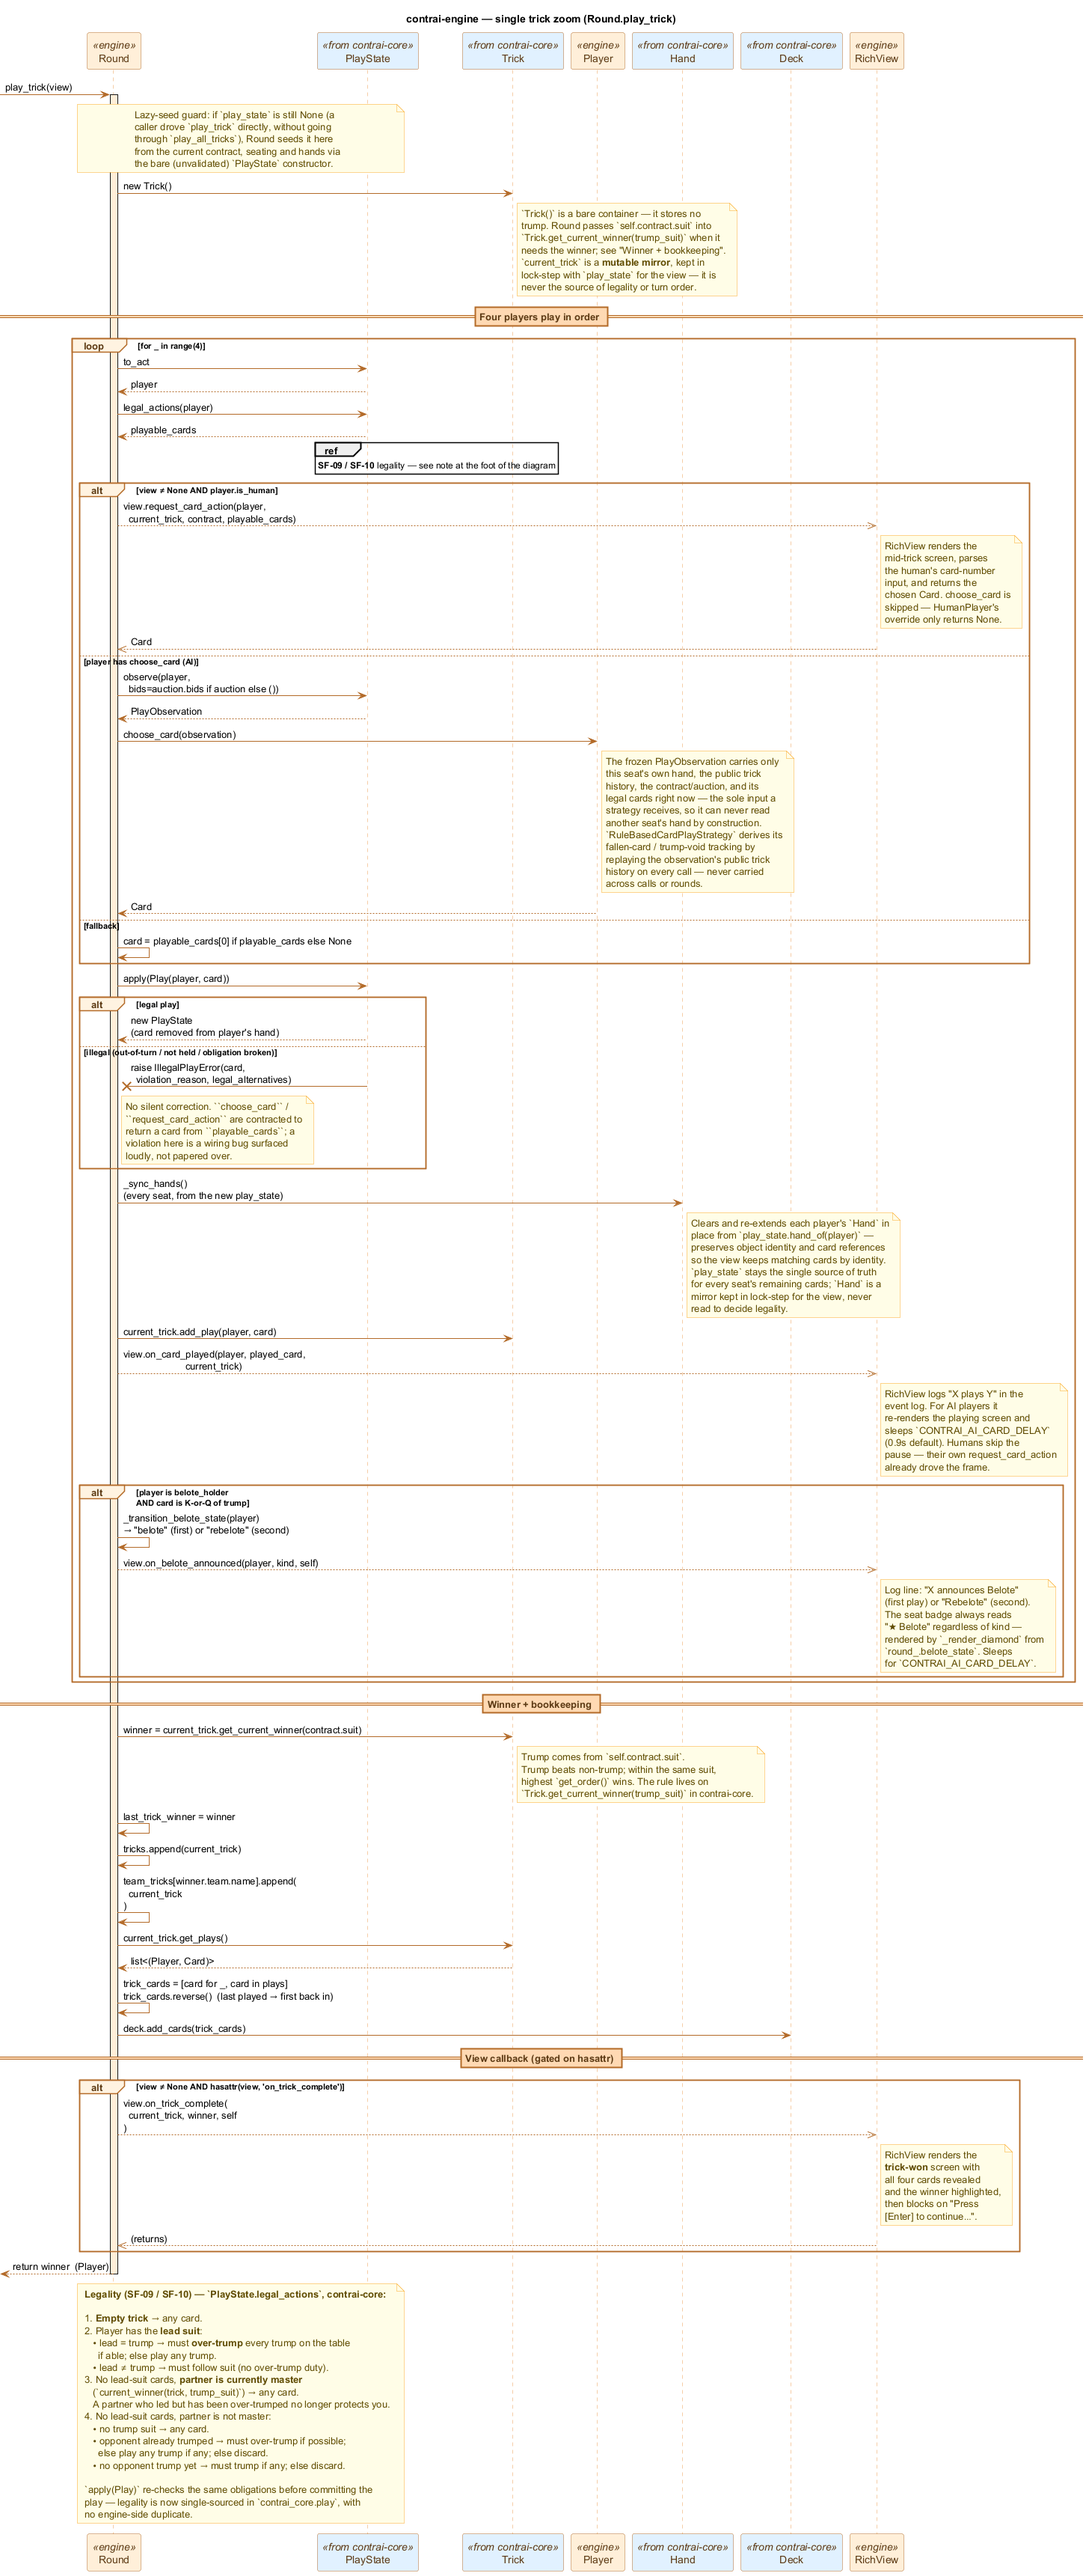
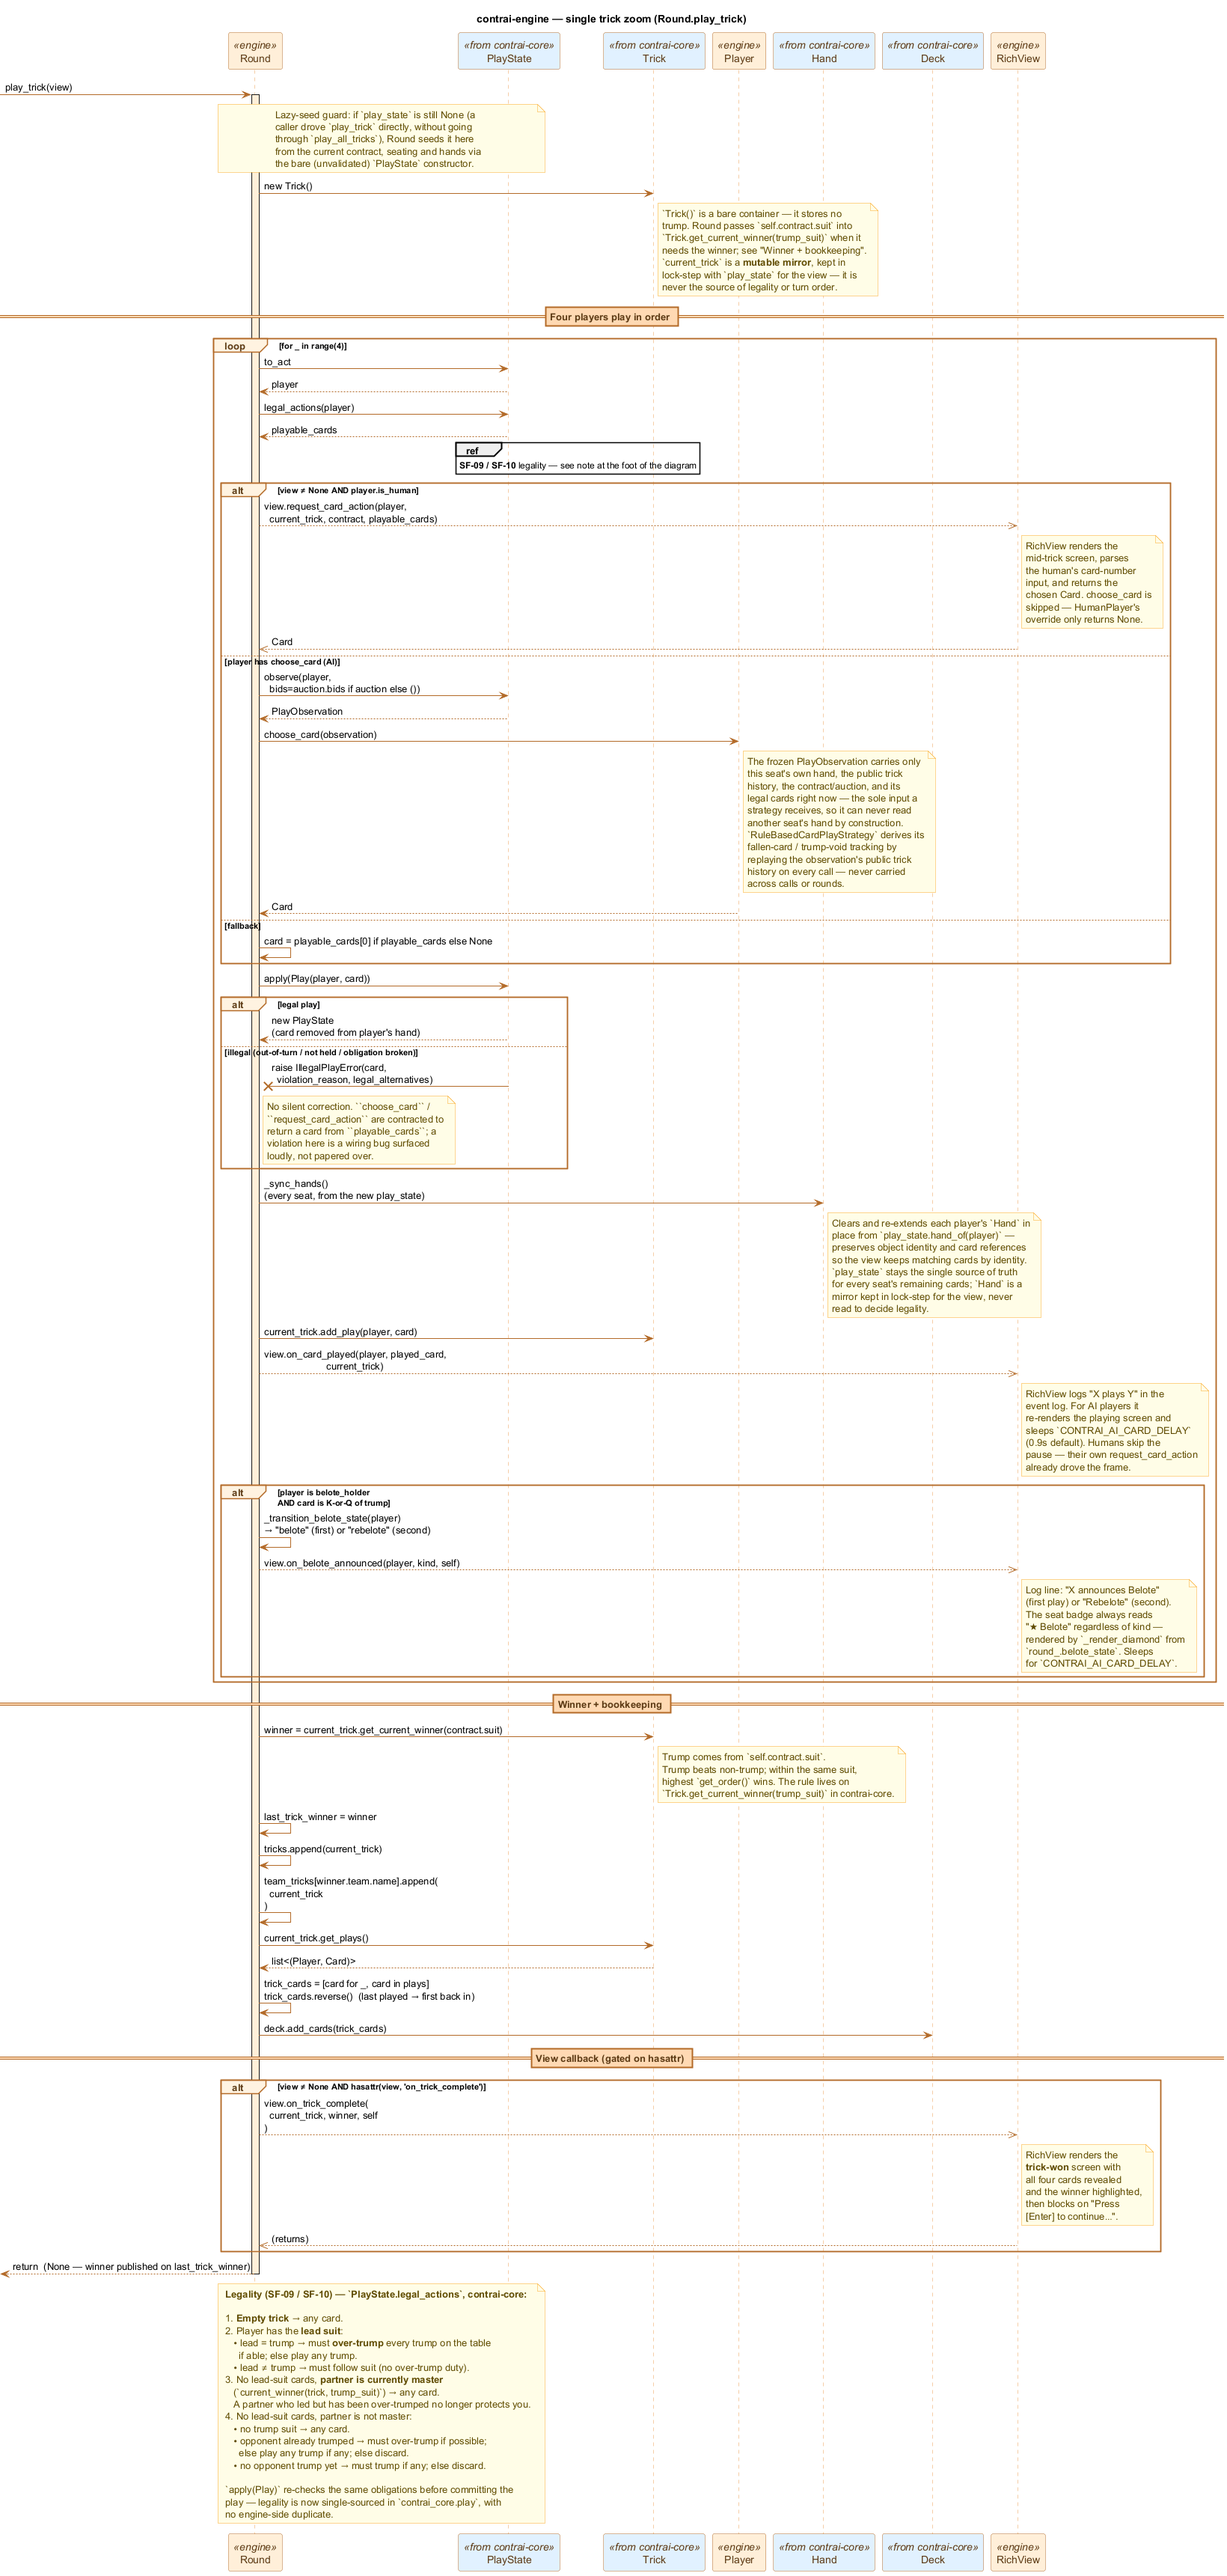
refactor(engine): tidy signatures, annotations and scoring comments
- Round.play_trick now returns None: the winner was already published
  on last_trick_winner and no caller consumed the return value.
- Drop the unused trick_num/winner locals in play_all_tricks.
- The on_all_pass_redeal view hook is now a pure announcement: its
  unused round_ parameter is gone, and Game's call site and the test
  view doubles follow suit.
- Unquote TYPE_CHECKING-only forward references (Player, Deck, Round);
  deferred annotation evaluation makes the quotes redundant.
- Trim stale section pointers from scoring's rule comments.
- Sync the engine class/round/trick diagrams (sources + PNGs) with the
  play_trick and on_all_pass_redeal signature changes.

diff --git a/packages/contrai-engine/src/contrai_engine/model/round/scoring.py b/packages/contrai-engine/src/contrai_engine/model/round/scoring.py
@@ -6,7 +6,7 @@
 # result; it mutates nothing. The thin ``Round.calculate_round_scores``
 # wrapper unpacks that result onto the round's public result attributes.
 # Keeping the maths side-effect-free here isolates ~250 lines of scoring
-# rules from the lifecycle orchestrator (see contree-domain.md §6.5, §7).
+# rules from the lifecycle orchestrator.
 
 from dataclasses import dataclass
 from enum import Enum
@@ -105,8 +105,7 @@ def count_player_tricks(
 def score_round(round_: 'Round') -> RoundScore:
     """Score a played-out round into a :class:`RoundScore`.
 
-    Three scoring shapes, all sharing the same Belote rule (see
-    contree-domain.md §6.5, §7):
+    Three scoring shapes, all sharing the same Belote rule:
 
     - **Numeric, un-doubled (M = 1).** Made → declarer scores
       ``C + P_attack`` and the defense keeps its own card points;
@@ -182,10 +181,10 @@ def score_round(round_: 'Round') -> RoundScore:
     if round_.last_trick_winner and round_.last_trick_winner.team:
         team_card_points[round_.last_trick_winner.team.name] += 10
 
-    # Belote (+20) belongs to the team *holding* K + Q of trump
-    # (contree-domain.md §6.5), not to whoever wins the trick those
-    # cards land in. ``belote_holder`` is the single player holding
-    # both at deal time (None when split, or at No-Trump).
+    # Belote (+20) belongs to the team *holding* K + Q of trump, not
+    # to whoever wins the trick those cards land in. ``belote_holder``
+    # is the single player holding both at deal time (None when split,
+    # or at No-Trump).
     belote_team: Optional[str] = None
     if round_.belote_holder is not None and round_.belote_holder.team is not None:
         belote_team = round_.belote_holder.team.name
@@ -206,7 +205,6 @@ def score_round(round_: 'Round') -> RoundScore:
     # giving 500 / 1000 / 2000 for Slam and 1000 / 2000 / 4000 for
     # Solo Slam at normal / doubled / redoubled. The grid is symmetric:
     # whichever side wins the contract scores the at-risk amount.
-    # See contree-domain.md §7.2.
     if round_.contract.is_slam_family():
         contract_team_trick_count = len(round_.team_tricks[contract_team_name])
         contract_made = contract_team_trick_count == 8
@@ -247,12 +245,11 @@ def score_round(round_: 'Round') -> RoundScore:
     # numeric contract. Recognised only un-doubled — the
     # doubled/redoubled path keeps its winner-takes-all 160 + C×M
     # shape regardless. The trick pile (152 cards + the 10-point
-    # last-trick bonus) is
-    # replaced by a flat 250 substitute and the contract is
-    # necessarily made. GRAND_SLAM when the contracting player won all
-    # 8 personally (the Solo Slam predicate), else plain SLAM.
-    # The 250 substitute is the same flat amount a *declared* Slam is
-    # worth, so it reads from the SlamLevel single source of truth.
+    # last-trick bonus) is replaced by a flat 250 substitute and the
+    # contract is necessarily made. GRAND_SLAM when the contracting
+    # player won all 8 personally (the Solo Slam predicate), else plain
+    # SLAM. The 250 substitute is the same flat amount a *declared* Slam
+    # is worth, so it reads from the SlamLevel single source of truth.
     UNANNOUNCED_SLAM_SUBSTITUTE = SlamLevel.SLAM.base_value
     unannounced_slam: Optional[UnannouncedSlam] = None
     declarer_slam = (
@@ -271,9 +268,8 @@ def score_round(round_: 'Round') -> RoundScore:
 
     # The declarer's *realized* points decide made/failed: card
     # points (already including the last-trick bonus) plus the Belote
-    # bonus when the declarer holds it (contree-domain.md §7.1-§7.2).
-    # An unannounced Slam is made outright — sweeping every trick can
-    # never fail.
+    # bonus when the declarer holds it. An unannounced Slam is made
+    # outright — sweeping every trick can never fail.
     attacker_realized = (
         team_card_points[contract_team_name] + belote_bonus(contract_team_name)
     )
@@ -283,8 +279,7 @@ def score_round(round_: 'Round') -> RoundScore:
         # Un-doubled: the two sides share the pile.
         if contract_made:
             # On an unannounced Slam the 162 pile (last-trick bonus
-            # included) is
-            # swapped for the flat 250 substitute; otherwise the
+            # included) is swapped for the flat 250 substitute; otherwise the
             # declarer adds its real captured card points.
             attacker_pile = (
                 UNANNOUNCED_SLAM_SUBSTITUTE

diff --git a/packages/contrai-engine/src/contrai_engine/model/round/round.py b/packages/contrai-engine/src/contrai_engine/model/round/round.py
@@ -27,7 +27,7 @@ class Round:
     trick sequence management, and round score calculation.
     """
 
-    def __init__(self, players_order: List['Player'], dealer: 'Player', deck: 'Deck', round_number: int):
+    def __init__(self, players_order: List[Player], dealer: Player, deck: Deck, round_number: int):
         """
         Initialize a round with the given parameters.
 
@@ -60,7 +60,7 @@ class Round:
         self.play_state: PlayState | None = None
         self.tricks: List[Trick] = []
         self.current_trick: Optional[Trick] = None
-        self.last_trick_winner: Optional['Player'] = None
+        self.last_trick_winner: Optional[Player] = None
         self.team_tricks: Dict[str, List[Trick]] = {}
         self.round_scores: Dict[str, int] = {}
         # Single source of truth for the contract outcome, set by
@@ -86,8 +86,8 @@ class Round:
         # passed). ``belote_state`` tracks which of the two cards they
         # have already played: missing → not yet announced; "belote" →
         # one played; "rebelote" → both played.
-        self.belote_holder: Optional['Player'] = None
-        self.belote_state: Dict['Player', str] = {}
+        self.belote_holder: Optional[Player] = None
+        self.belote_state: Dict[Player, str] = {}
 
         # Initialize team tricks dictionary
         if players_order:
@@ -162,7 +162,7 @@ class Round:
 
     def _gather_bid(
         self,
-        player: 'Player',
+        player: Player,
         auction: Auction,
         view,
     ) -> Bid:
@@ -200,7 +200,7 @@ class Round:
             )
         return bid
 
-    def _is_belote_event(self, player: 'Player', card) -> bool:
+    def _is_belote_event(self, player: Player, card) -> bool:
         """True if *player* playing *card* counts toward a belote announcement."""
         if self.belote_holder is None or self.contract is None:
             return False
@@ -209,7 +209,7 @@ class Round:
         trump = self.contract.suit
         return card.suit == trump and card.rank in (Rank.KING, Rank.QUEEN)
 
-    def _transition_belote_state(self, player: 'Player') -> Optional[str]:
+    def _transition_belote_state(self, player: Player) -> Optional[str]:
         """Advance the belote_state machine and return the new state name.
 
         Returns ``"belote"`` if this is the first of the K+Q pair played,
@@ -260,9 +260,9 @@ class Round:
             player.hand.clear()
             player.hand.extend(self.play_state.hand_of(player))
 
-    def play_trick(self, view=None) -> Optional['Player']:
+    def play_trick(self, view=None) -> None:
         """
-        Play a single trick and return its winner.
+        Play a single trick.
 
         The trick is driven by the immutable core :class:`PlayState`: the
         active player, the legal cards, and each play's effect on the hands
@@ -274,9 +274,6 @@ class Round:
 
         Args:
             view: Optional view for human player interaction
-
-        Returns:
-            Player: The winner of the trick or None if no winner
         """
         # Lazy-seed guard: tests drive ``play_trick`` directly without going
         # through ``play_all_tricks``. Seed from the current contract,
@@ -383,7 +380,7 @@ class Round:
         if view is not None and hasattr(view, 'on_trick_complete'):
             view.on_trick_complete(self.current_trick, winner, self)
 
-        return winner
+        return
 
     def play_all_tricks(self, view=None) -> Dict[str, List[Trick]]:
         """
@@ -409,8 +406,8 @@ class Round:
         )
 
         # Play 8 tricks
-        for trick_num in range(8):
-            winner = self.play_trick(view)
+        for _ in range(8):
+            self.play_trick(view)
 
         return self.team_tricks
 

diff --git a/packages/contrai-engine/tests/test_model/test_game.py b/packages/contrai-engine/tests/test_model/test_game.py
@@ -59,13 +59,13 @@ class RecordingView:
 
     def __init__(self):
         self.dealt = []
-        self.redealt = []
+        self.redeal_count = 0
 
     def on_round_dealt(self, round_obj):
         self.dealt.append(round_obj)
 
-    def on_all_pass_redeal(self, round_obj):
-        self.redealt.append(round_obj)
+    def on_all_pass_redeal(self):
+        self.redeal_count += 1
 
 @pytest.fixture
 def players():
@@ -344,7 +344,7 @@ def test_manage_round_completed(game, monkeypatch):
     ]
     # The view was told a fresh round was dealt, and never asked to redeal.
     assert view.dealt == [game.current_round]
-    assert view.redealt == []
+    assert view.redeal_count == 0
 
 
 def test_manage_round_accumulates_scores_across_rounds(game, monkeypatch):
@@ -382,5 +382,5 @@ def test_manage_round_all_pass_redeals(game, monkeypatch):
     assert 'play_all_tricks' not in game.current_round.calls
     assert 'handle_failed_contract' in game.current_round.calls
     # The view was asked to redeal, and the totals were left untouched.
-    assert view.redealt == [game.current_round]
+    assert view.redeal_count == 1
     assert game.scores == {'North-South': 0, 'East-West': 0}

diff --git a/packages/contrai-engine/src/contrai_engine/view/rich_view.py b/packages/contrai-engine/src/contrai_engine/view/rich_view.py
@@ -302,12 +302,12 @@ class RichView:
         line.append(f"{dealer} deals.", style=FG)
         self._log(line)
 
-    def on_all_pass_redeal(self, round_: "Round") -> None:
+    def on_all_pass_redeal(self) -> None:
         """Engine hook: every bid was a pass, the deal will be repeated."""
         line = Text("All passed — redealing.", style=f"bold {YELLOW}")
         self._log(line)
 
-    def on_contract_established(self, round_: "Round") -> None:
+    def on_contract_established(self, round_: Round) -> None:
         """Engine hook: bidding ended on a contract — bookmark it in the log."""
         contract = getattr(round_, "contract", None)
         if contract is None:

diff --git a/packages/contrai-engine/src/contrai_engine/model/game.py b/packages/contrai-engine/src/contrai_engine/model/game.py
@@ -153,9 +153,10 @@ class Game:
         # If no contract (all passed), handle failed contract (redistributes cards).
         if not contract:
             self.current_round.handle_failed_contract()
-            # Notify the view that the round will be redealt.
+            # Notify the view that the round will be redealt. The hook is a
+            # pure announcement — it carries no round payload.
             if view is not None and hasattr(view, 'on_all_pass_redeal'):
-                view.on_all_pass_redeal(self.current_round)
+                view.on_all_pass_redeal()
             return
 
         # Play all tricks - delegate to Round

diff --git a/packages/contrai-engine/tests/test_view/test_rich_view.py b/packages/contrai-engine/tests/test_view/test_rich_view.py
@@ -407,7 +407,7 @@ class TestEventLog:
 
     def test_on_all_pass_redeal_logs(self, monkeypatch):
         view = self._make_view(monkeypatch)
-        view.on_all_pass_redeal(round_=None)
+        view.on_all_pass_redeal()
         assert any("redealing" in line.plain for line in view.event_log)
 
     def test_on_contract_established_logs(self, monkeypatch, four_players):
